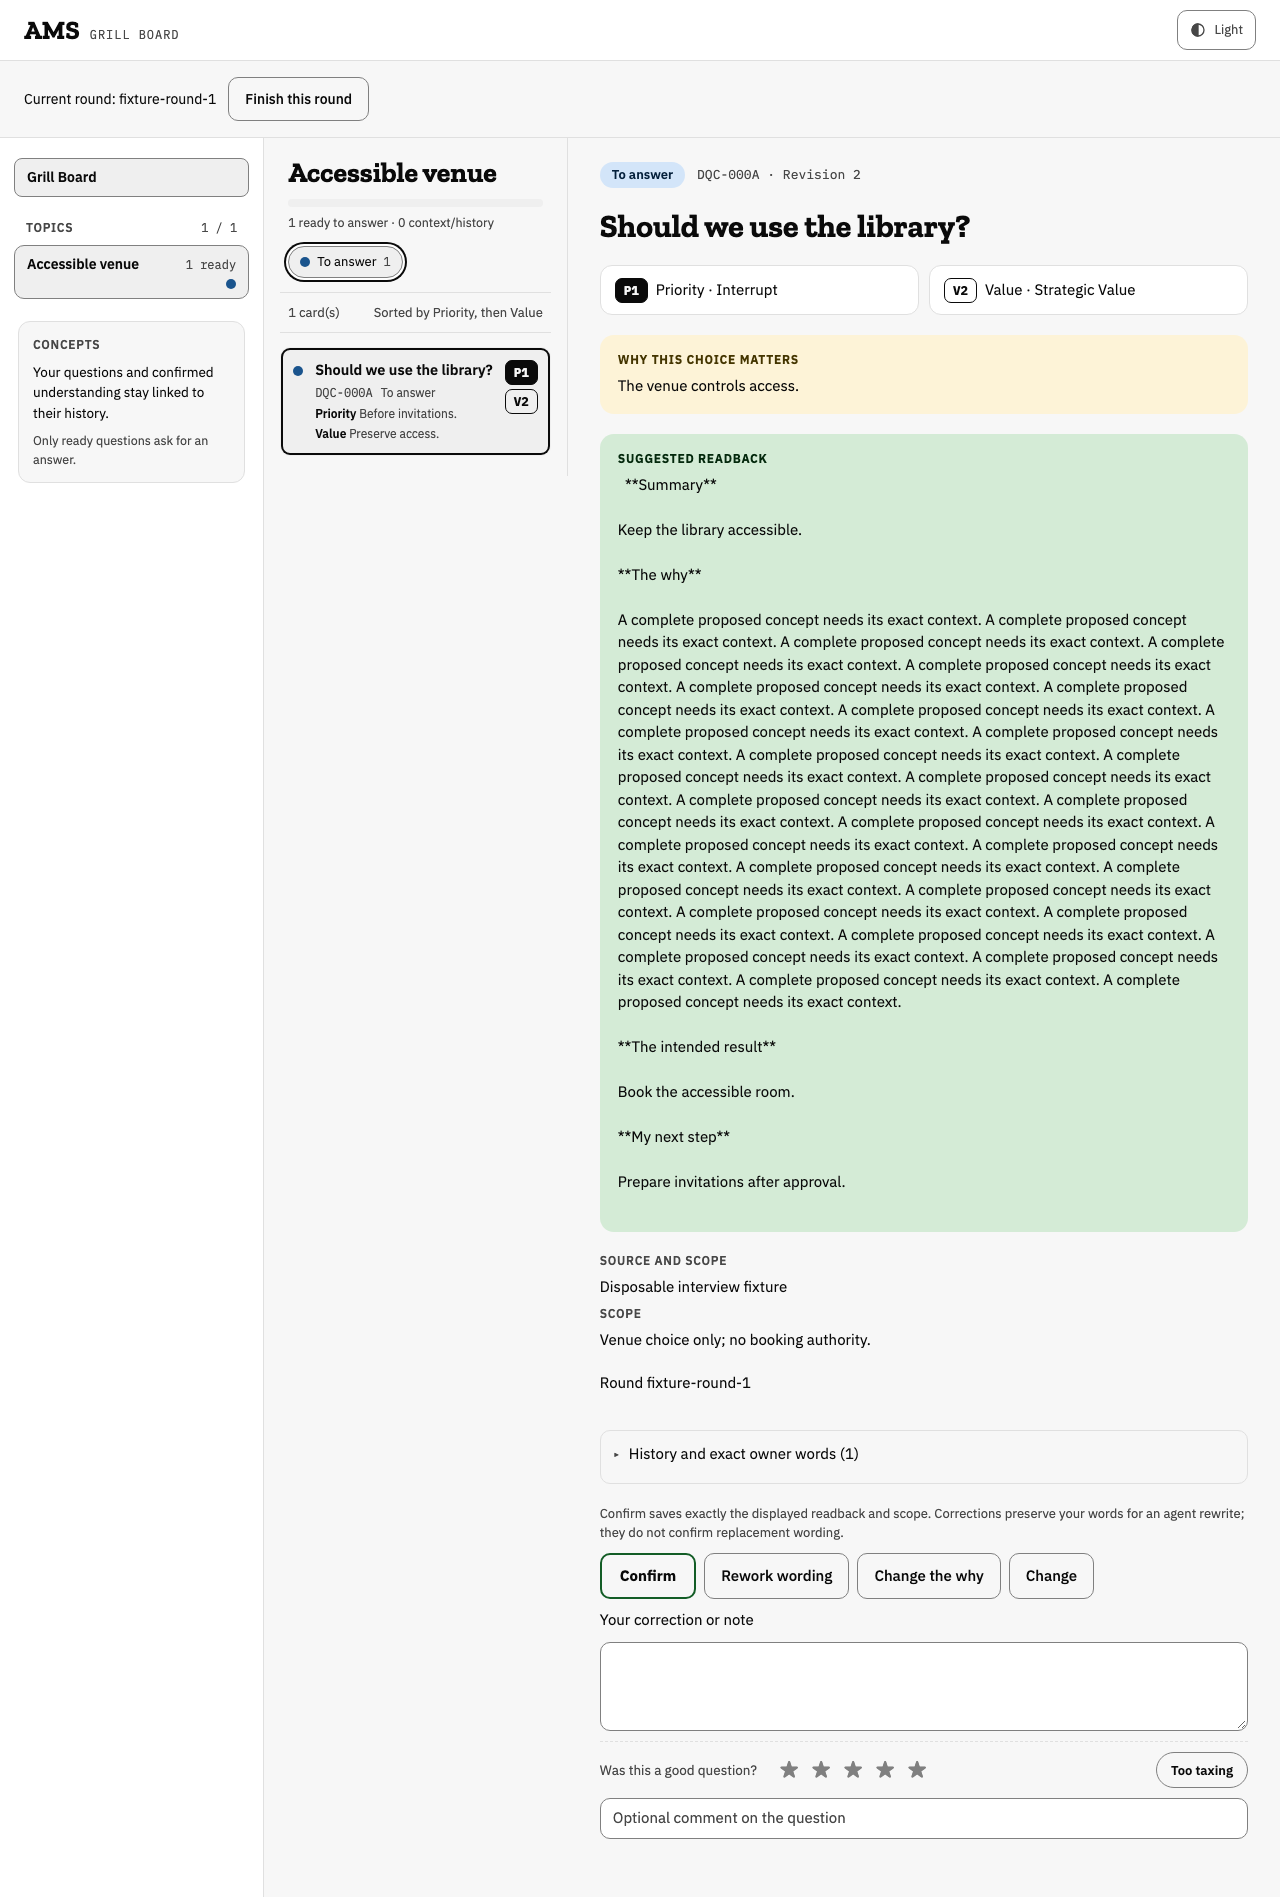
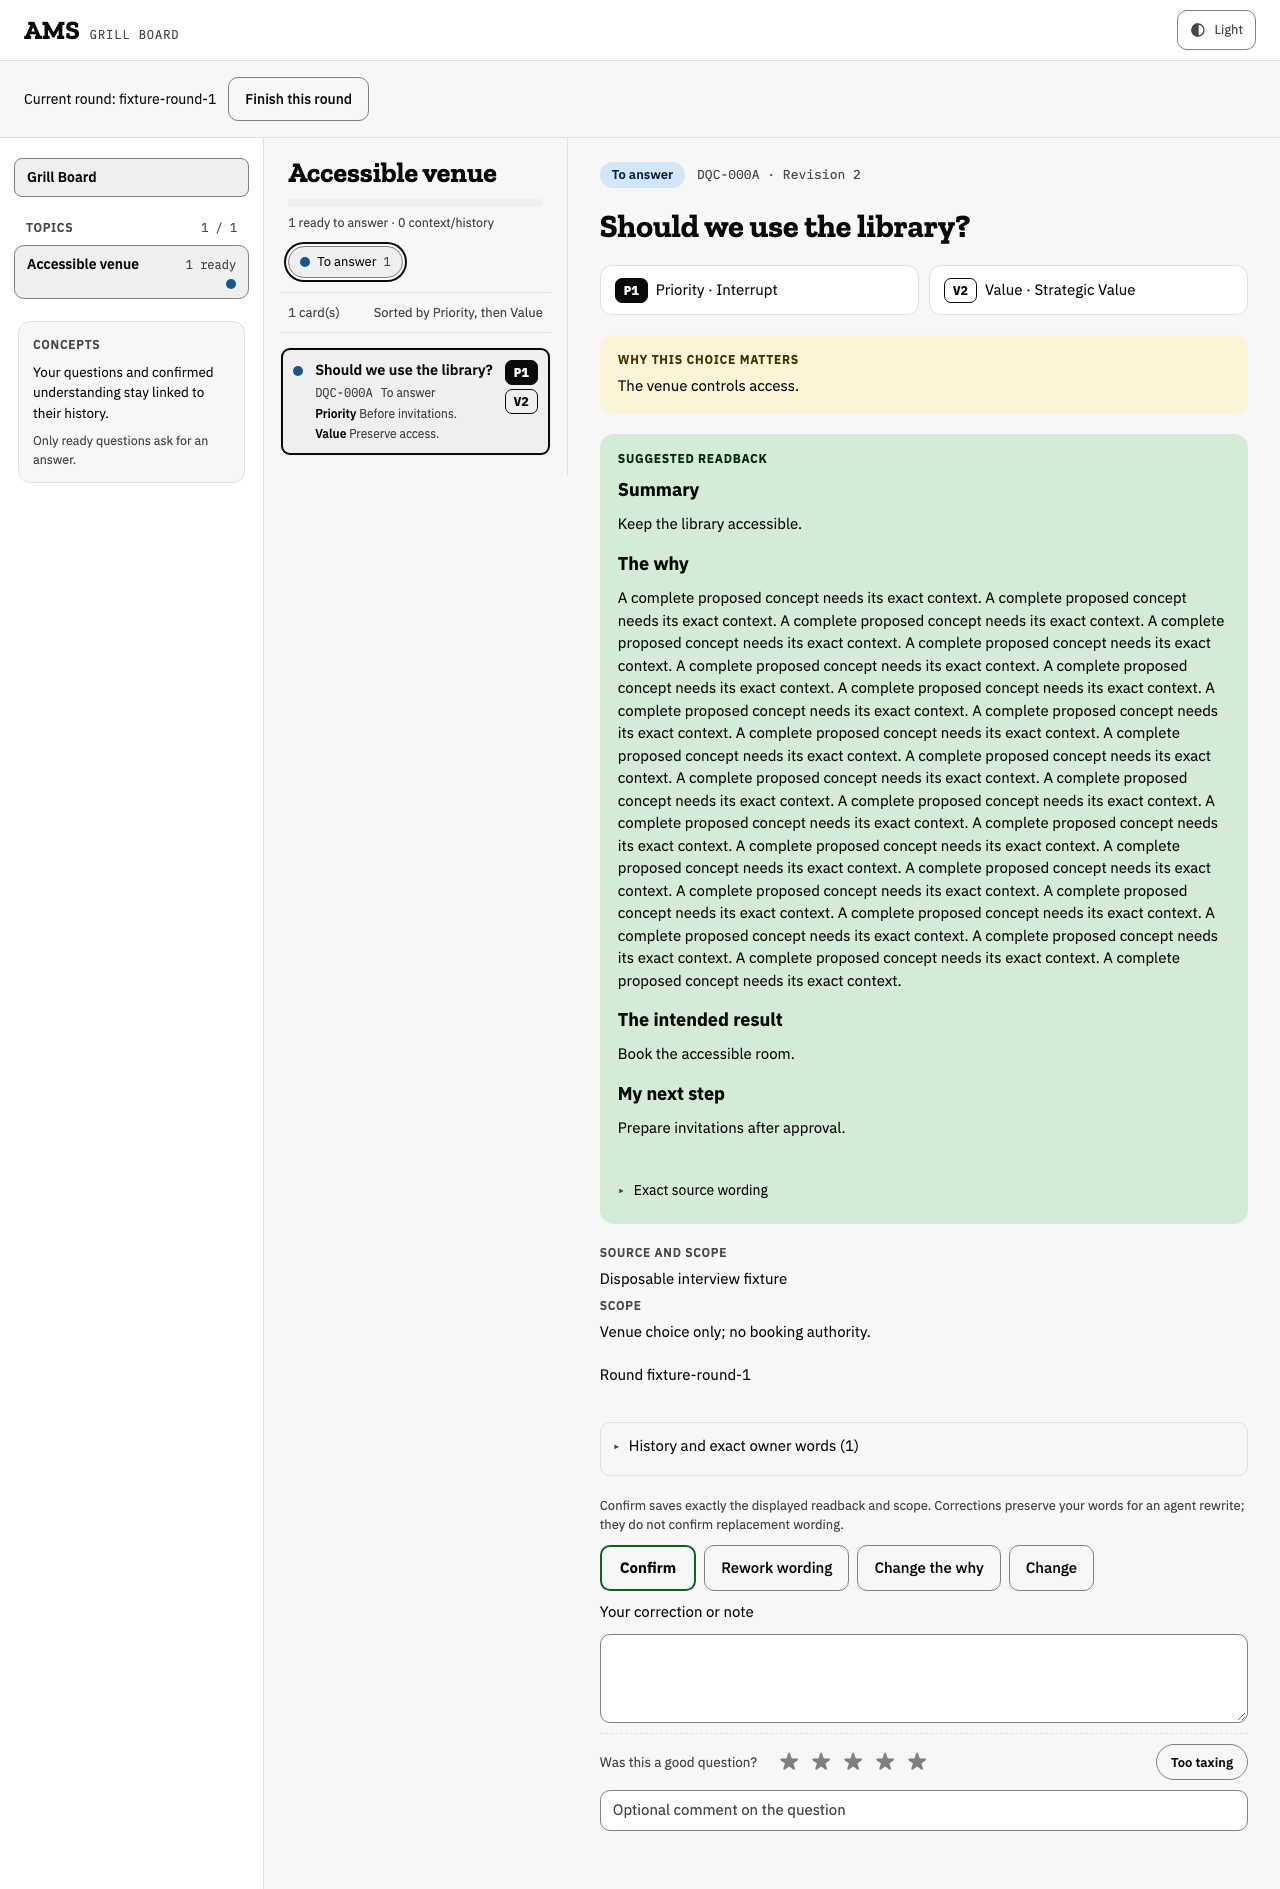
Present complete readbacks with safe semantic section headings

diff --git a/src/ams/grill_board/static/board.css b/src/ams/grill_board/static/board.css
@@ -189,3 +189,9 @@ textarea{background:var(--surface);border:1px solid var(--line-strong);border-ra
 .rounds{padding:16px 24px;border-bottom:1px solid var(--line);display:flex;flex-direction:column;gap:12px}
 .round{display:flex;flex-wrap:wrap;align-items:center;gap:12px;font-size:14px;overflow-wrap:anywhere}
 .alert textarea{box-sizing:border-box;max-width:100%;width:100%}
+
+.readback-proposal{display:flex;flex-direction:column;gap:12px}
+.readback-proposal h3{font-size:18px;line-height:1.3;margin:4px 0 0}
+.readback-source{margin-top:12px;font-size:14px}
+.readback-source summary{cursor:pointer;min-height:28px}
+.readback-source pre{margin-top:12px}

diff --git a/src/ams/grill_board/server.py b/src/ams/grill_board/server.py
@@ -17,6 +17,7 @@ the Origin (or, without one, the Referer) must be its own origin.
 
 import argparse
 import json
+import re
 import uuid
 import threading
 from html import escape
@@ -345,6 +346,31 @@ def render_context(cards, topic):
     return f'<section class="context-list" aria-label="Context and history"><h2>Context and history</h2><p>Confirmed concepts, branch context and questions held for agent work.</p><ul>{links}</ul></section>'
 
 
+READBACK_HEADING = re.compile(
+    r'^\s*(?:\*\*|#{1,6}\s*)?(Summary|The why|The intended result|My next step|What I will do)\s*:?(?:\*\*)?\s*$',
+    re.IGNORECASE,
+)
+
+
+def render_readback(value):
+    """Recognize only readback section headings; all other source is escaped prose."""
+    sections, lines = [], []
+    for line in value.splitlines(keepends=True):
+        match = READBACK_HEADING.fullmatch(line.rstrip('\r\n'))
+        if match:
+            if lines:
+                sections.append('<div class="readback">' + escape(''.join(lines).strip('\r\n')) + '</div>')
+                lines = []
+            sections.append('<h3>' + escape(match[1]) + '</h3>')
+        else:
+            lines.append(line)
+    if lines:
+        sections.append('<div class="readback">' + escape(''.join(lines).strip('\r\n')) + '</div>')
+    displayed = '<div class="readback-proposal" aria-label="Exact displayed readback">' + ''.join(sections) + '</div>'
+    source = '<details class="readback-source"><summary>Exact source wording</summary>' + exact_text(value, 'Exact source readback') + '</details>'
+    return displayed + source
+
+
 def render_dqc_proposal(card):
     proposal = card.dqc['lifecycle'].get('proposal')
     if not proposal:
@@ -364,7 +390,7 @@ def render_dqc_proposal(card):
     return f"""<section class="box tone h-worth"><div class="box-head">Why this choice matters</div>
 {exact_text(proposal['why'])}</section>
 <section class="box tone h-agent"><div class="box-head">{heading}</div>
-{exact_text(proposal['readback'], 'Exact displayed readback')}</section>
+{render_readback(proposal['readback'])}</section>
 <section class="block"><div class="eyebrow">Source and scope</div>{exact_text(proposal['source'])}
 <div class="eyebrow">Scope</div>{exact_text(proposal['scope'])}<p class="small">Round {escape(proposal['round'])}</p></section>
 {dependency_section}{held}"""

diff --git a/tests/test_grill_board_dqcs.py b/tests/test_grill_board_dqcs.py
@@ -98,6 +98,8 @@ def test_complete_native_readback_is_current_and_not_limited_as_legacy_context(d
     assert PROPOSAL['why'] in page and PROPOSAL['scope'] in page
     assert 'Before invitations.' in page and 'Preserve access.' in page
     assert 'Revision 2' in page and 'Suggested readback' in page
+    assert '<h3>Summary</h3>' in page and '<h3>The why</h3>' in page
+    assert '<h3>The intended result</h3>' in page and '<h3>My next step</h3>' in page
     assert head(dqc_room) == before
     assert git(dqc_room, 'status', '--porcelain') == ''
 
@@ -381,3 +383,15 @@ def test_too_taxing_goes_to_same_native_record_and_new_instance_keeps_history(dq
         assert 'name="verdict" value="confirm"' not in page
     finally:
         restarted.shutdown();restarted.server_close()
+
+
+def test_safe_readback_headings_keep_source_and_escape_untrusted_prose(dqc_room,dqc_board):
+    readback='**Summary**\n\n<script>do not run</script>\n\n**The why**\n\nAccess.\n\n**The intended result**\n\nReadable proposal.\n\n**What I will do**\n\nWait for approval.'
+    action(dqc_room,'propose',proposal={**PROPOSAL,'readback':readback})
+    page=get(dqc_board)
+    assert '<h3>What I will do</h3>' in page
+    assert '<script>do not run</script>' not in page
+    assert '&lt;script&gt;do not run&lt;/script&gt;' in page
+    assert html.escape(readback) in page
+    assert post(dqc_board,{**form(dqc_board),'verdict':'confirm'})[0]==200
+    assert view(dqc_room)['tracker']['questions'][0]['answer']==readback

diff --git a/tests/test_grill_board_dqc_browser.py b/tests/test_grill_board_dqc_browser.py
@@ -19,7 +19,10 @@ def test_complete_readback_and_controls_reachable(dqc_room,dqc_board,browser,the
     try:
         page.goto(origin(dqc_board)+'/?card=DQC-000A')
         page.wait_for_load_state('networkidle')
-        assert page.get_by_label('Exact displayed readback').text_content() == READBACK
+        assert page.get_by_label('Exact source readback',exact=True).text_content() == READBACK
+        for heading in ['Summary','The why','The intended result','My next step']:
+            assert page.get_by_role('heading',name=heading,exact=True).is_visible()
+        assert '**Summary**' not in page.get_by_label('Exact displayed readback',exact=True).text_content()
         assert page.evaluate('document.documentElement.scrollWidth') <= width
         page.get_by_label('DQC history',exact=True).evaluate('(element) => element.open = true')
         controls = page.evaluate(CONTROLS)

diff --git a/grill-board/README.md b/grill-board/README.md
@@ -11,8 +11,7 @@ S-004: the [native tracker](../workbench/landmark-tracker/README.md) owns DQCs;
 The Board calls `landmark-tracker.mjs show --committed --json`, reading the same
 native records used in terminal interviews. It renders their full readback,
 why, source, scope, revision, separate Priority/Value reasons, dependencies,
-confirmed versions, exact owner feedback and revision history. Source text is
-escaped and displayed without trusting HTML. DQCs bypass the legacy short-note
+confirmed versions, exact owner feedback and revision history. Readback headings receive safe formatting; source and prose stay escaped. DQCs bypass the legacy short-note
 restriction; the Board provides no routine page drafting editor.
 
 Topics use the native concept titles. A `/?card=DQC-ID` link follows the stable
